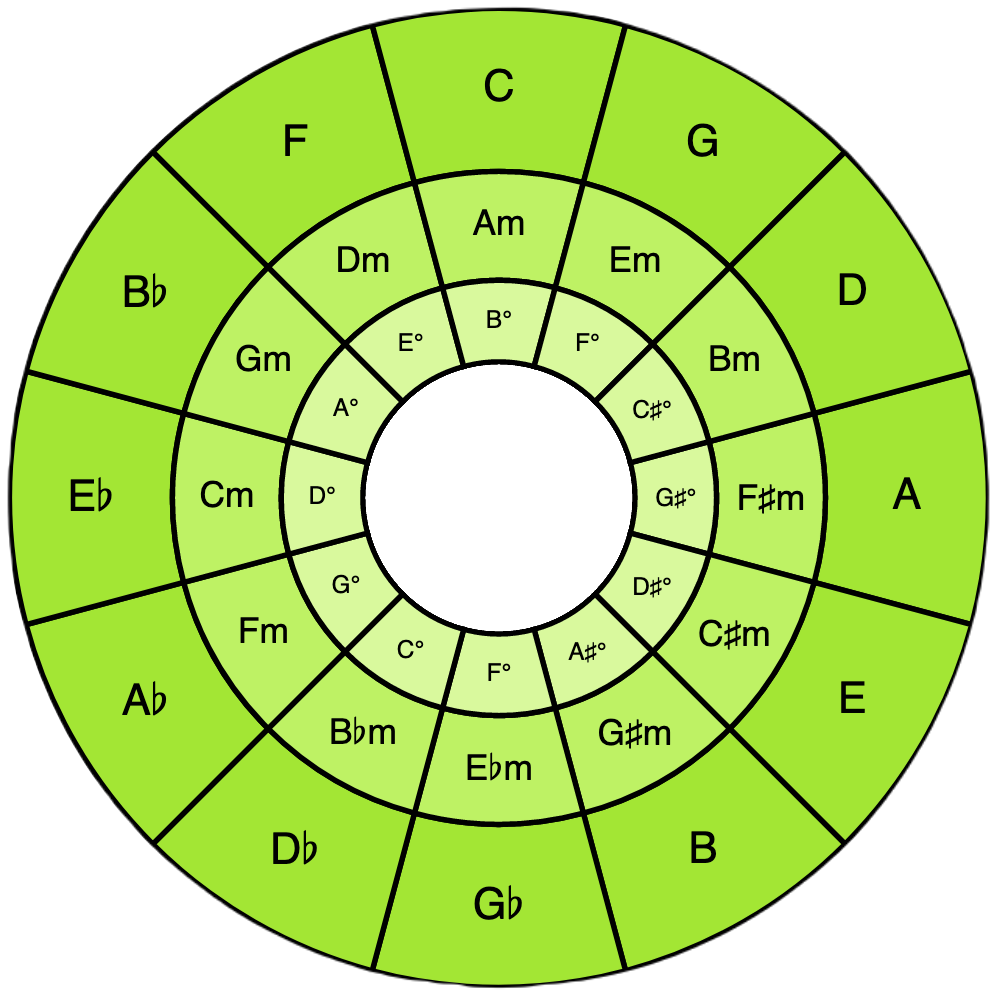
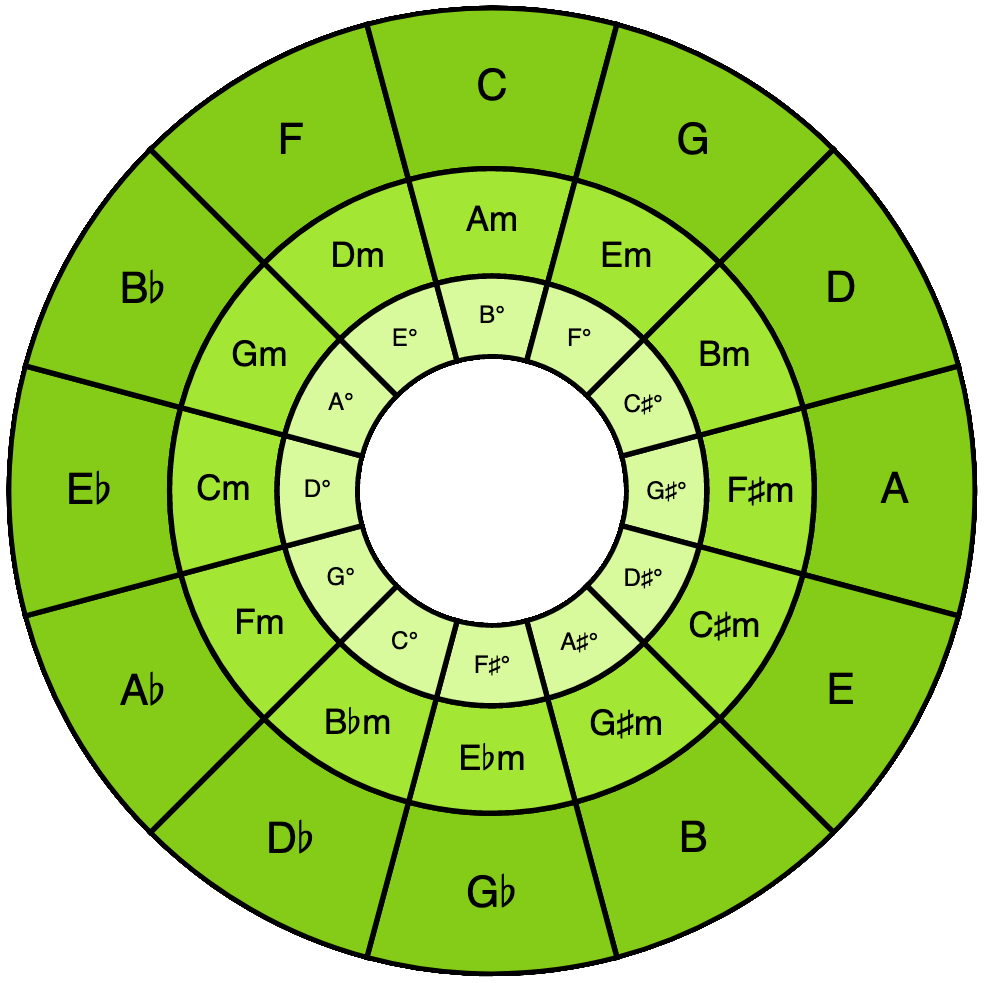
v1.0.1 - update pesky G flat major key

diff --git a/src/CircleOfFifthsData.ts b/src/CircleOfFifthsData.ts
@@ -28,7 +28,7 @@ const CIRCLE_OF_FIFTHS_DATA = [
         idMajor: "Gb",
         displayRelativeMinor: "E♭m",
         idMinor: "Ebm",
-        diminished: "F°",
+        diminished: "F♯°",
         keySignature: "♯♯♯♯♯♯"
     },
     {
